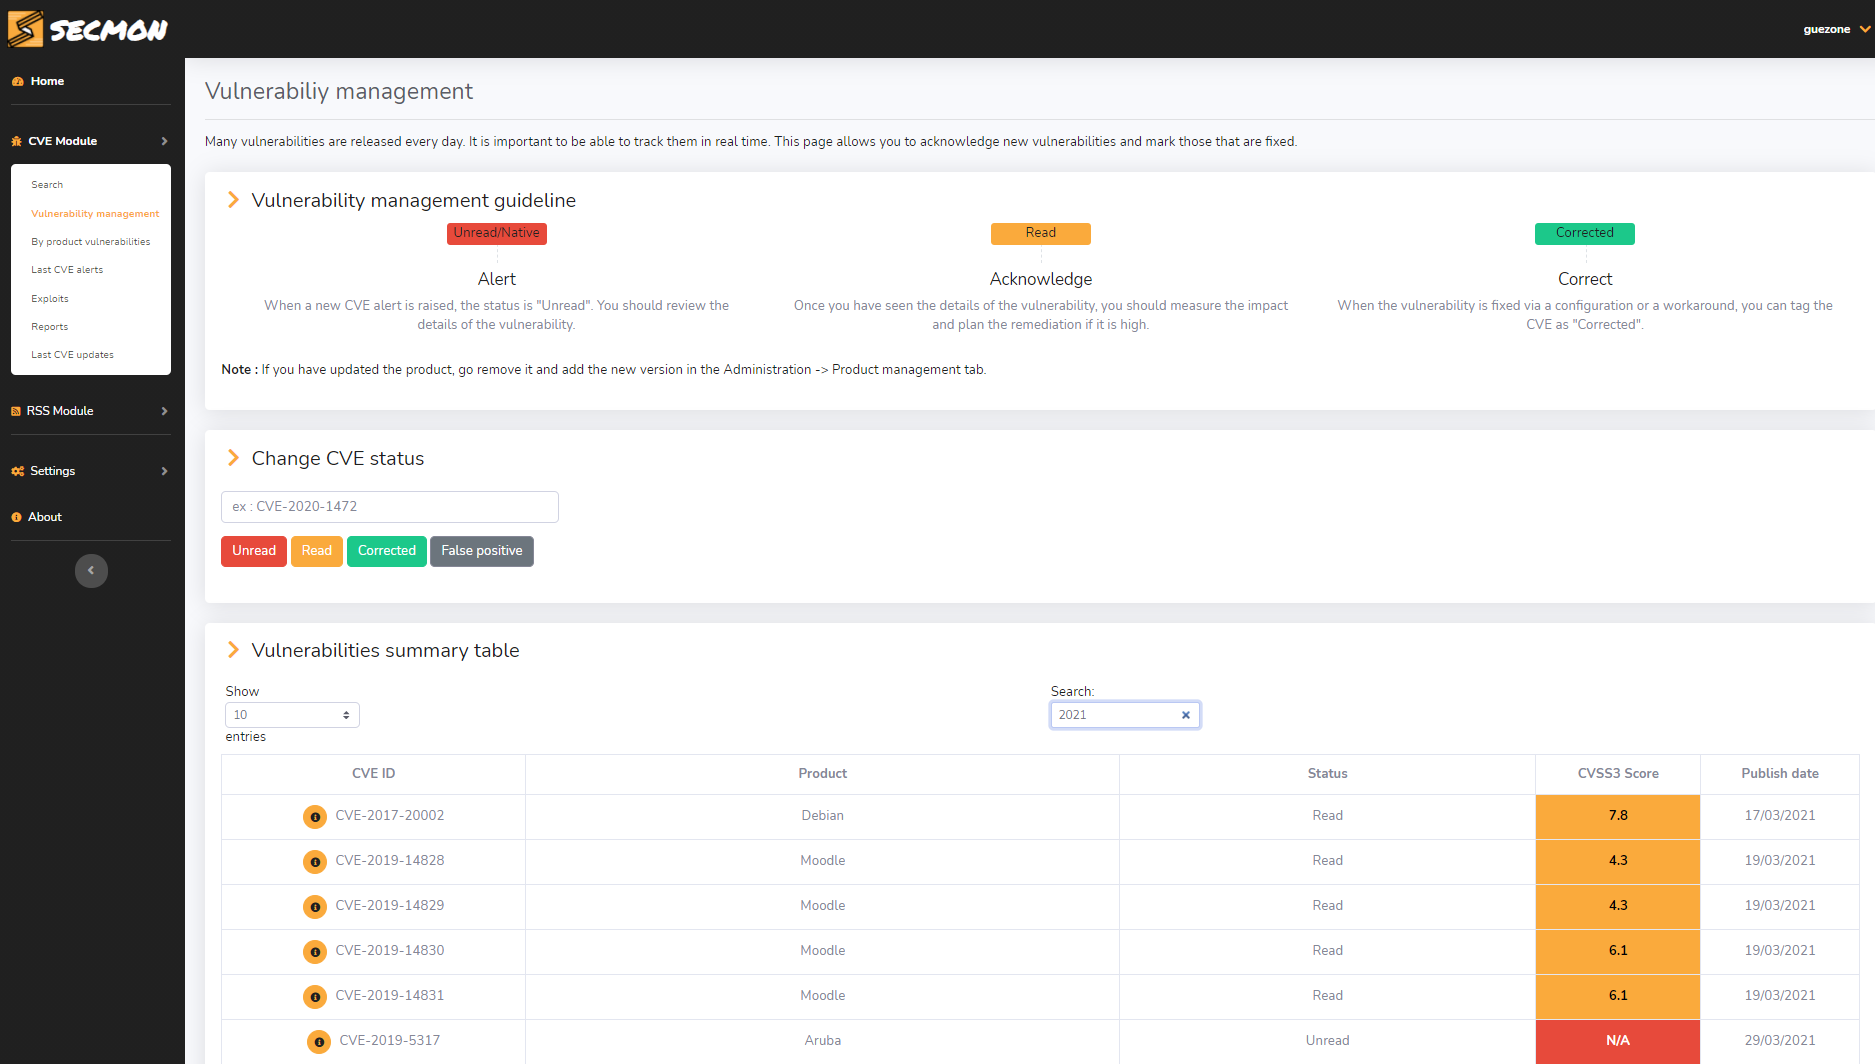
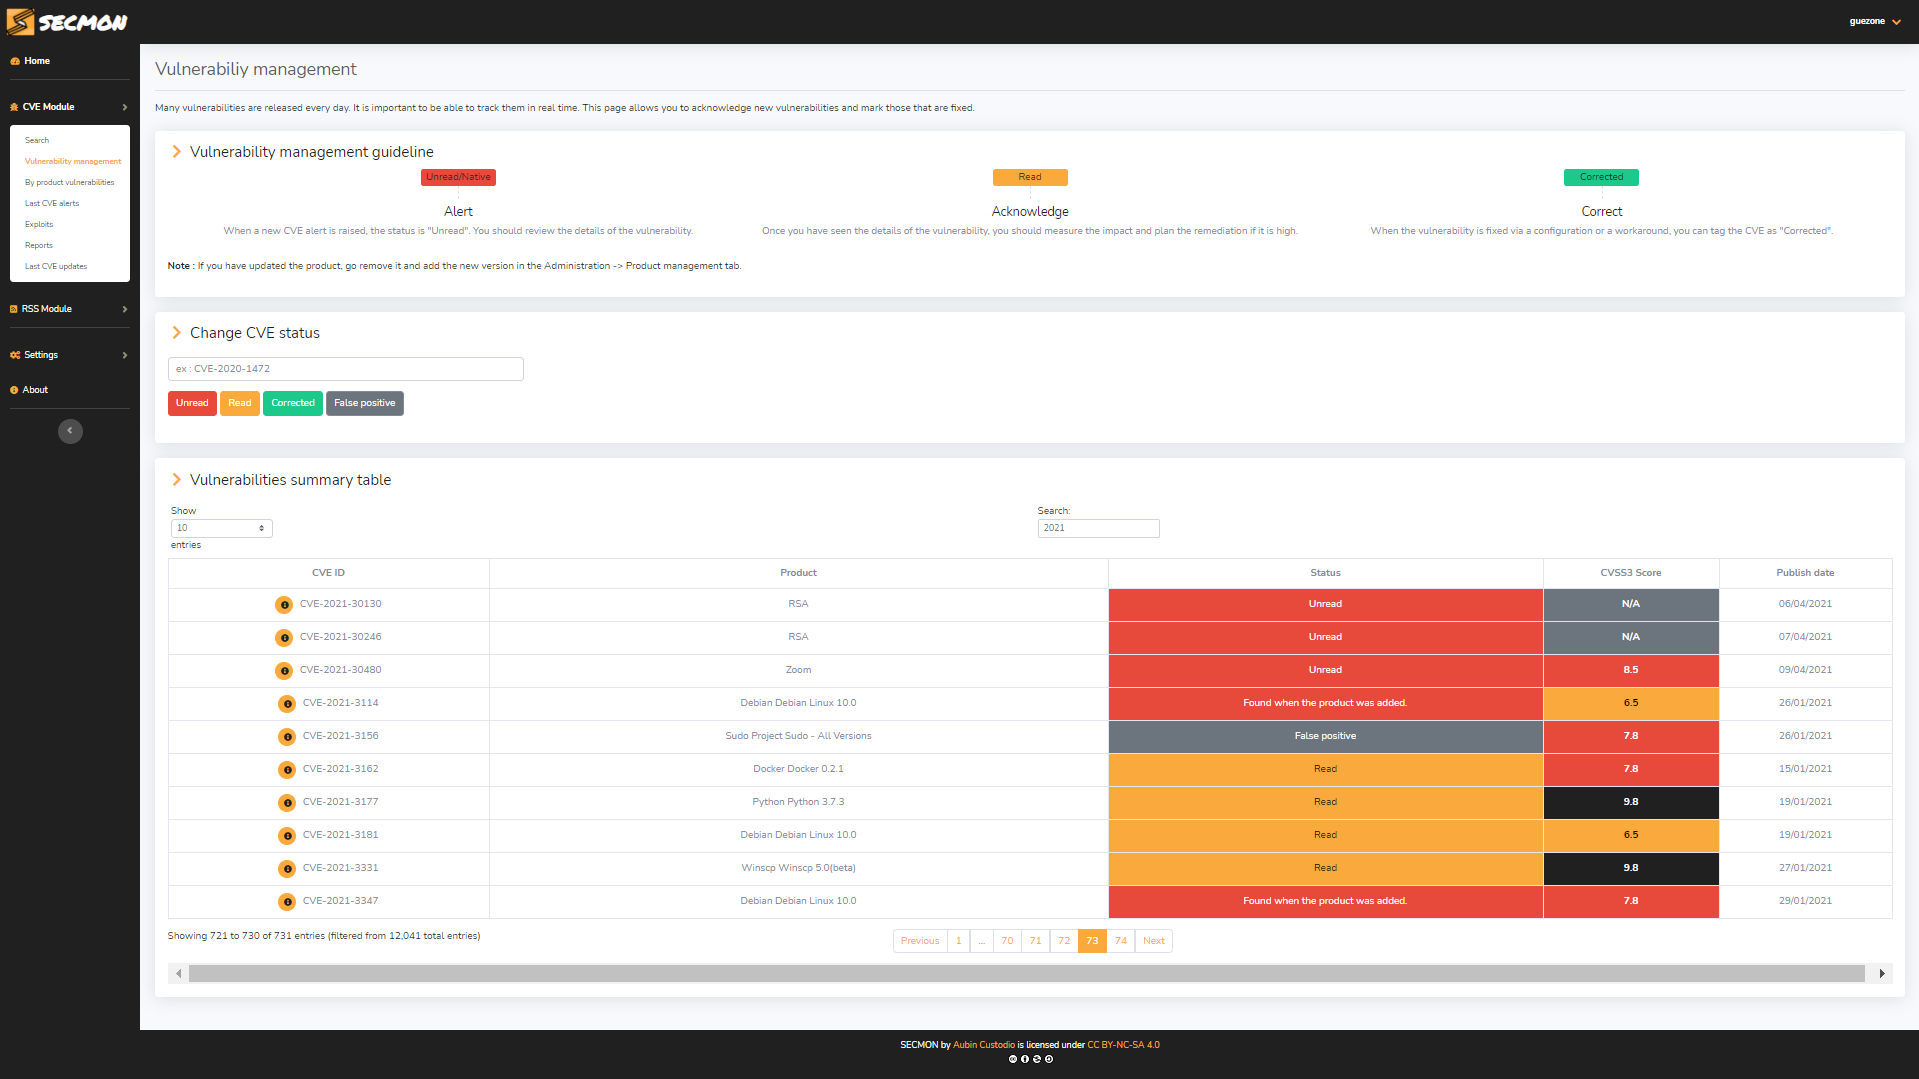
Correcting web template
Correcting vulnerability management HTML template.

diff --git a/templates/vuln-mgmt.html b/templates/vuln-mgmt.html
@@ -141,10 +141,10 @@
                                 <tr style="vertical-align: middle!important;">
                                     <td style="vertical-align: middle!important;text-align: center;"><a href="cve/{{cve[0]}}" target="_blank" class="btn btn-sm btn-warning btn-circle" name="btn" value="search" style="color:#202020;margin-right: 10px;"><i class="fas fa-info-circle"></i></a>{{ cve[0] }}</td>
                                     <td style="vertical-align: middle!important;text-align: center;"> {{ cve[1] }}</td>
-                                    <td style="vertical-align: middle!important;text-align: center;background-color:{{ cve[9] }};color:{{ cve[10] }};">
+                                    <td style="vertical-align: middle!important;text-align: center;background-color:{{ cve[11] }};color:{{ cve[12] }};">
                                         {{ cve[2] }}
                                     </td>
-                                    <td style="vertical-align: middle!important;font-weight: bold;text-align: center;background-color:{{ cve[11] }} ;color:{{ cve[12] }} ;">{{ cve[3] }}</td>
+                                    <td style="vertical-align: middle!important;font-weight: bold;text-align: center;background-color:{{ cve[13] }} ;color:{{ cve[14] }} ;">{{ cve[3] }}</td>
                                     <td style="vertical-align: middle!important;text-align: center;">{{ cve[4] }}</td>
                                 </tr style="vertical-align: middle!important;">
                             {% endfor %}
